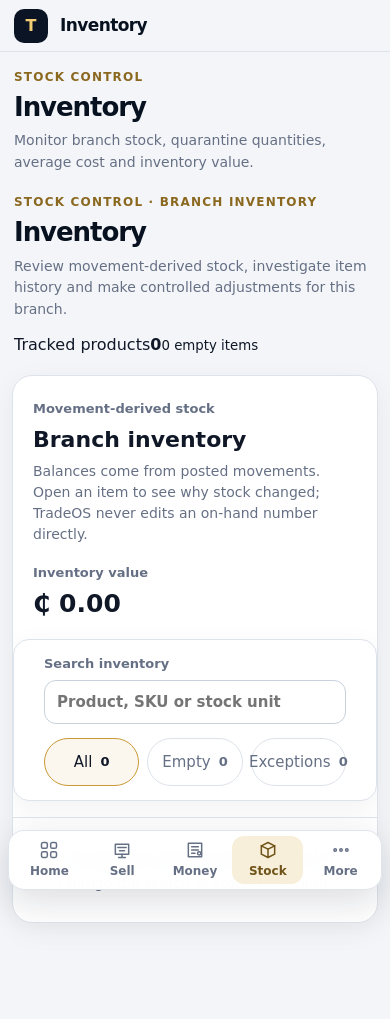
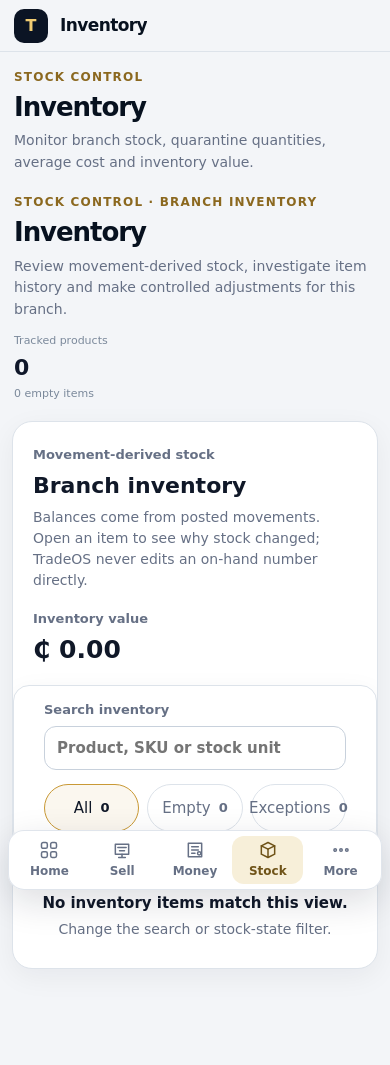
fix(web): close migrated feature stylesheet block

diff --git a/apps/web/app/components/workspace/review-fixes.test.tsx b/apps/web/app/components/workspace/review-fixes.test.tsx
@@ -118,6 +118,12 @@ describe("multi-page review regressions", () => {
   });
 
 
+  it("keeps consolidated application CSS comments balanced so migrated styles remain active", () => {
+    const css = read("tradeos-app.css");
+    expect(css.match(/\/\*/g)?.length ?? 0).toBe(css.match(/\*\//g)?.length ?? 0);
+    expect(css).toContain("/* === Migrated feature styles (from deleted legacy CSS files) === */");
+  });
+
   it("keeps frontend source free of batch-rewrite control-character artifacts", () => {
     const offenders: string[] = [];
     const visit = (directory: string) => {

diff --git a/apps/web/app/tradeos-app.css b/apps/web/app/tradeos-app.css
@@ -335,7 +335,7 @@ button:disabled, .tos-button:disabled { cursor: not-allowed; }
 
 }
 
-/* === Migrated feature styles (from deleted legacy CSS files) ===
+/* === Migrated feature styles (from deleted legacy CSS files) === */
 
 .purchase-inventory-workspace { margin-top: 18px; }
 .inventory-summary { display: grid; justify-items: end; gap: 2px; }

diff --git a/docs/qa/2026-10-10-zai-authenticated-frontend-restoration.md b/docs/qa/2026-10-10-zai-authenticated-frontend-restoration.md
@@ -41,7 +41,7 @@ Final hardening on the restoration branch also covers the interaction regression
 
 Fresh branch verification:
 
-- Web tests: 61 files / 330 tests passed
+- Web tests: 61 files / 331 tests passed
 - Monorepo typecheck: passed
 - Monorepo lint: passed
 - Monorepo production build: passed
